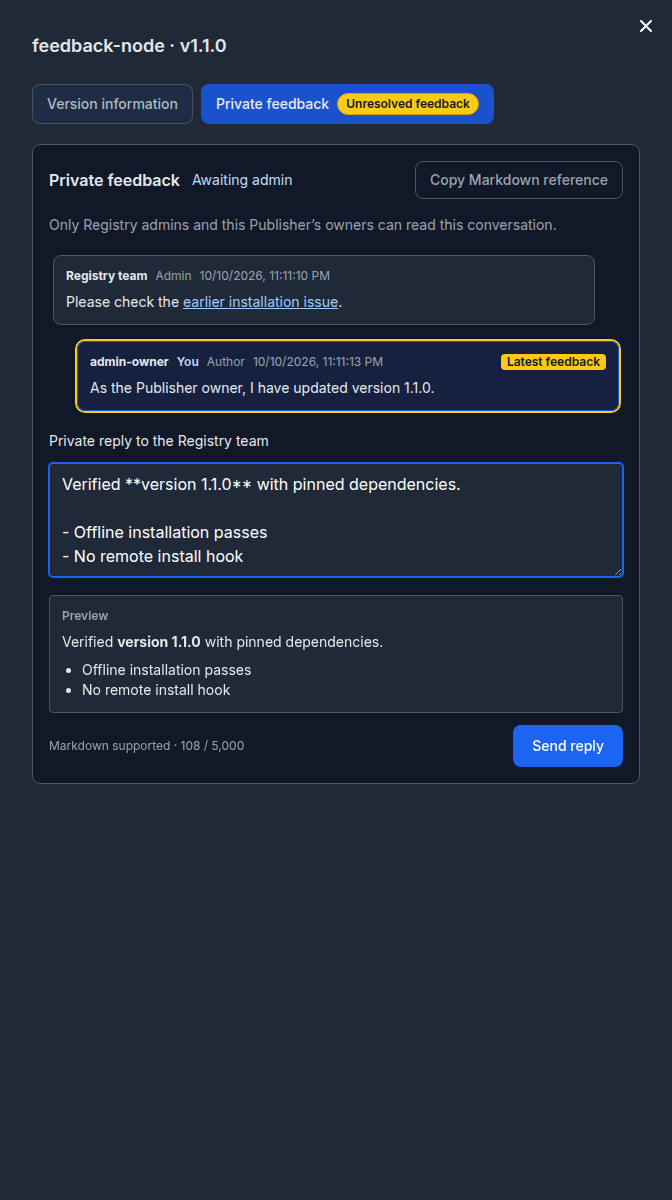
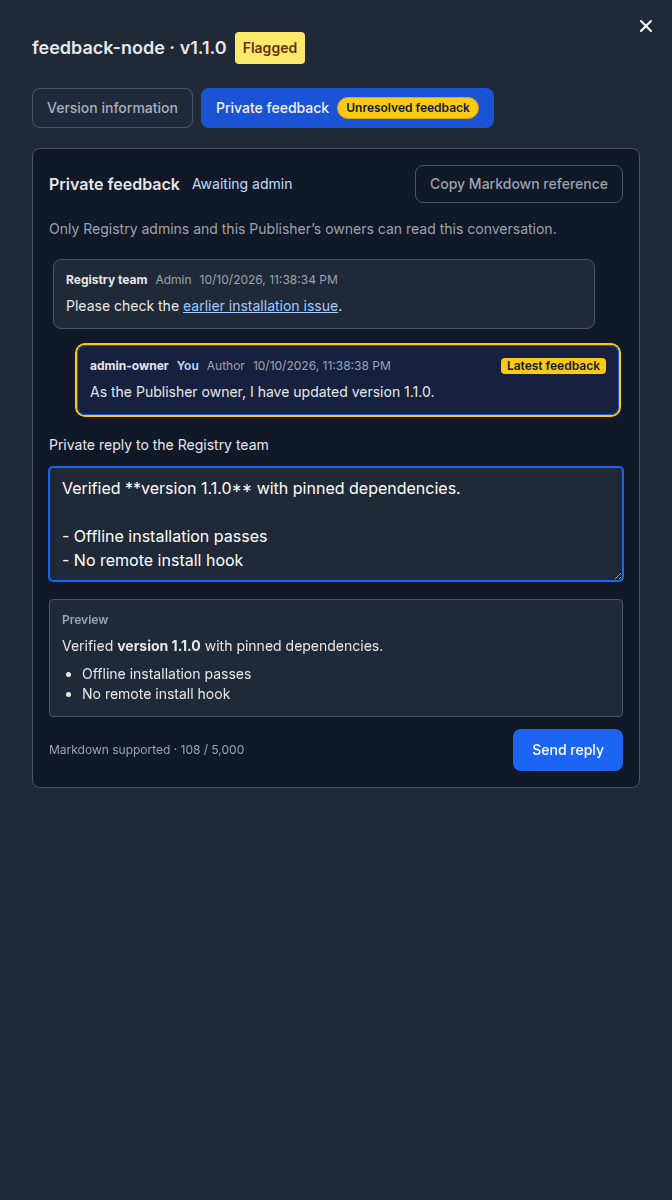
feat(nodes): show version status in history and details

diff --git a/components/feedback/FeedbackAuthorPage.stories.tsx b/components/feedback/FeedbackAuthorPage.stories.tsx
@@ -420,7 +420,7 @@ export const UnresolvedVersions: Story = {
     }
     for (const version of ['0.9.0', '0.7.0', '0.6.0']) {
       const row = canvas.getByRole('heading', {
-        name: `Version ${version}`,
+        name: `Version ${version} Flagged`,
       }).parentElement!
       expect(within(row).queryByText('Unresolved feedback')).toBeNull()
     }
@@ -437,11 +437,13 @@ export const UnresolvedVersions: Story = {
     await waitFor(() =>
       expect(canvas.getAllByText('Unresolved feedback')).toHaveLength(1)
     )
+    expect(canvas.getAllByText('Flagged')).toHaveLength(versions.length)
     inboxError = 401
     await client.refetchQueries(inbox)
     await waitFor(() =>
       expect(canvas.queryByText('Unresolved feedback')).toBeNull()
     )
+    expect(canvas.getAllByText('Flagged')).toHaveLength(versions.length)
   },
 }
 export const RepeatedInboxCursorStopsAndRecovers: Story = {
@@ -476,12 +478,38 @@ export const RepeatedInboxCursorStopsAndRecovers: Story = {
 }
 
 export const PublicVersionHistory: Story = {
+  parameters: {
+    msw: {
+      handlers: [
+        http.get('*/nodes/:nodeId/versions', () =>
+          HttpResponse.json([
+            versions[0],
+            { ...versions[1], status: 'NodeVersionStatusActive' },
+          ])
+        ),
+        http.get('*/nodes/:nodeId/versions/0.9.0', () =>
+          HttpResponse.json({
+            ...versions[1],
+            status: 'NodeVersionStatusActive',
+          })
+        ),
+        ...meta.parameters!.msw.handlers,
+      ],
+    },
+  },
   beforeEach: () => {
     canEdit = false
   },
   play: async ({ canvasElement }) => {
     const canvas = within(canvasElement)
-    await canvas.findByRole('heading', { name: 'Version 1.0.0' })
+    const flagged = await canvas.findByRole('heading', {
+      name: 'Version 1.0.0 Flagged',
+    })
+    const active = await canvas.findByRole('heading', {
+      name: 'Version 0.9.0 Active',
+    })
+    expect(within(flagged).queryByText('Active')).toBeNull()
+    expect(within(active).queryByText('Flagged')).toBeNull()
     await waitFor(() => expect(client.isFetching()).toBe(0))
     expect(canvas.queryByText('Unresolved feedback')).toBeNull()
     expect(requests).toHaveLength(0)
@@ -490,6 +518,26 @@ export const PublicVersionHistory: Story = {
         name: 'Deprecate and close earlier feedback',
       })
     ).toBeNull()
+    for (const [heading, status, number] of [
+      [flagged, 'Flagged', '1.0.0'],
+      [active, 'Active', '0.9.0'],
+    ] as const) {
+      await userEvent.click(within(heading.parentElement!).getByText('More'))
+      const drawer = canvasElement.querySelector<HTMLElement>(
+        '#drawer-create-product-default'
+      )!
+      expect(
+        await within(drawer).findByRole('heading', {
+          name: `example · v${number} ${status}`,
+        })
+      ).toBeVisible()
+      expect(
+        within(drawer).queryByRole('button', { name: /Private feedback/ })
+      ).toBeNull()
+      await userEvent.click(
+        within(drawer).getByRole('button', { name: 'Close' })
+      )
+    }
   },
 }
 
@@ -716,7 +764,10 @@ export const SupersedeRetryKeepsSelection: Story = {
       client.refetchQueries({ queryKey: ['/nodes/example/versions'] }),
       client.refetchQueries(inbox),
     ])
-    await canvas.findByRole('heading', { name: 'Version 1.0.1', hidden: true })
+    await canvas.findByRole('heading', {
+      name: /^Version 1\.0\.1\b/,
+      hidden: true,
+    })
     const summaries = client.getQueriesData<{
       threads: { thread: { revision: number } }[]
     }>(inbox)

diff --git a/components/nodes/NodeDetails.tsx b/components/nodes/NodeDetails.tsx
@@ -37,6 +37,7 @@ import { useFeedbackInbox } from '@/components/feedback/useFeedbackInbox'
 import { privateFeedbackEnabled } from '@/components/feedback/useVersionFeedback'
 import { UnresolvedFeedbackBadge } from '@/components/feedback/UnresolvedFeedbackBadge'
 import { SupersedeFeedback } from '@/components/feedback/SupersedeFeedback'
+import { NodeStatusBadge as NodeVersionStatusBadge } from '@/components/NodeStatusBadge'
 import CopyableCodeBlock from '../CodeBlock/CodeBlock'
 import { NodeDeleteModal } from './NodeDeleteModal'
 import { NodeEditModal } from './NodeEditModal'
@@ -638,8 +639,11 @@ const NodeDetails = () => {
                         `${version.version}-${version.createdAt}-${nodeVersions?.indexOf(version)}`
                       }
                     >
-                      <h3 className="flex flex-wrap items-center gap-2 text-base font-semibold text-gray-200">
+                      <h3 className="dark flex flex-wrap items-center gap-2 text-base font-semibold text-gray-200">
                         {t('Version')} {version.version}
+                        {version.status && (
+                          <NodeVersionStatusBadge status={version.status} />
+                        )}
                         <UnresolvedFeedbackBadge
                           thread={versionFeedback(version.id)}
                         />

diff --git a/components/nodes/NodeVDrawer.tsx b/components/nodes/NodeVDrawer.tsx
@@ -1,6 +1,7 @@
 import { FeedbackThread } from '@/components/feedback/FeedbackThread'
 import { InstallationTags } from '@/components/feedback/InstallationTags'
 import { UnresolvedFeedbackBadge } from '@/components/feedback/UnresolvedFeedbackBadge'
+import { NodeStatusBadge as NodeVersionStatusBadge } from '@/components/NodeStatusBadge'
 import type { FeedbackThread as Thread } from '@/src/api/feedback.generated'
 import {
   privateFeedbackEnabled,
@@ -131,9 +132,14 @@ const NodeVDrawer: React.FC<NodeVDrawerProps> = ({
         <div className="mb-6 pr-8">
           <h2
             id="drawer-label"
-            className="break-words text-lg font-semibold text-gray-200"
+            className="flex flex-wrap items-center gap-2 text-lg font-semibold text-gray-200"
           >
-            {nodeId} · v{versionNumber}
+            <span className="min-w-0 break-words">
+              {nodeId} · v{versionNumber}
+            </span>
+            {version.status && (
+              <NodeVersionStatusBadge status={version.status} />
+            )}
           </h2>
           <button
             type="button"
